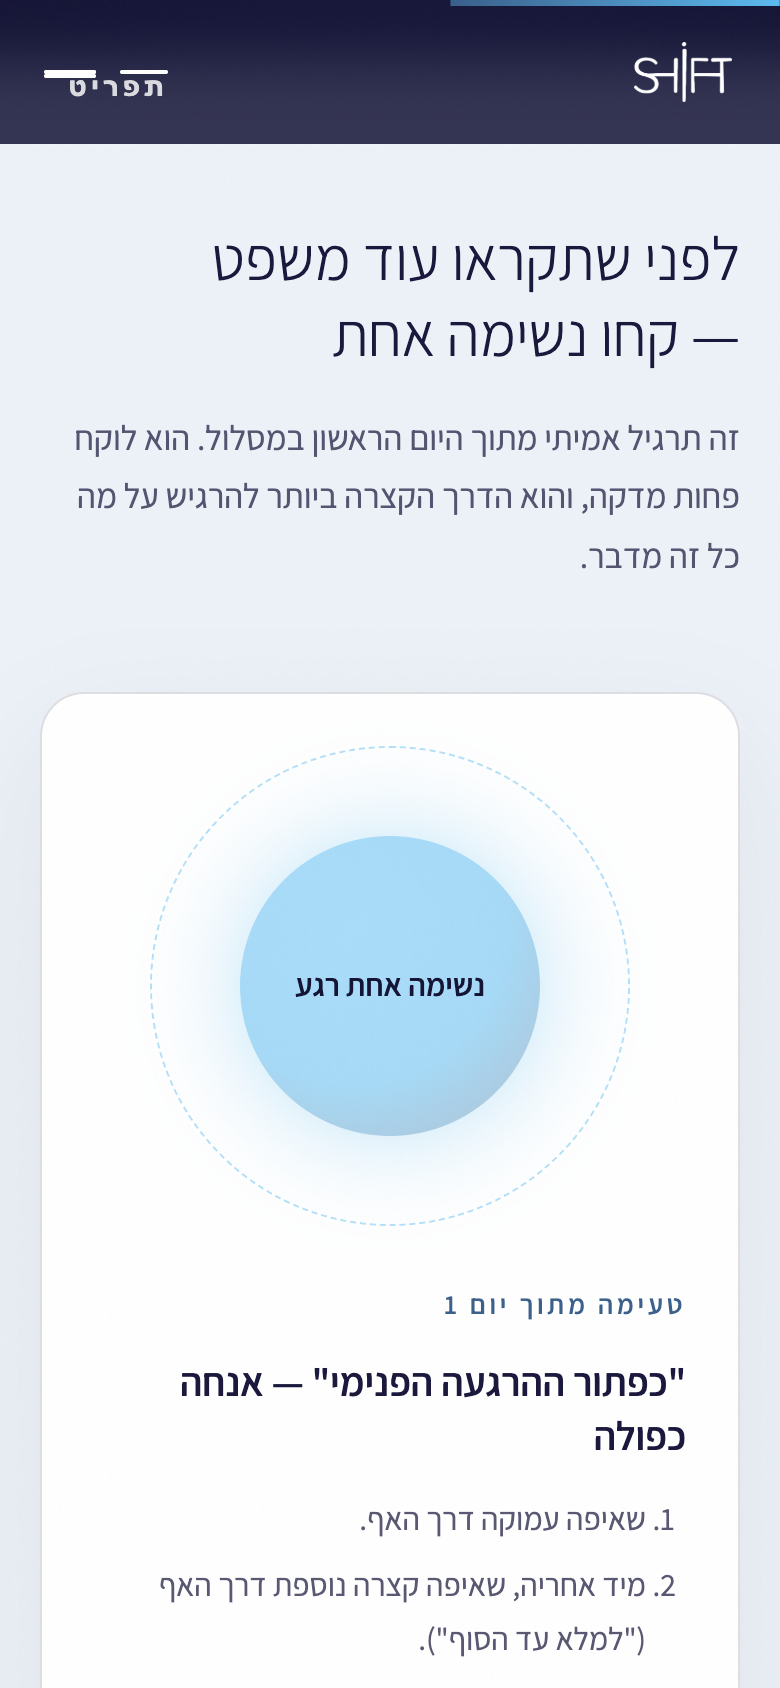
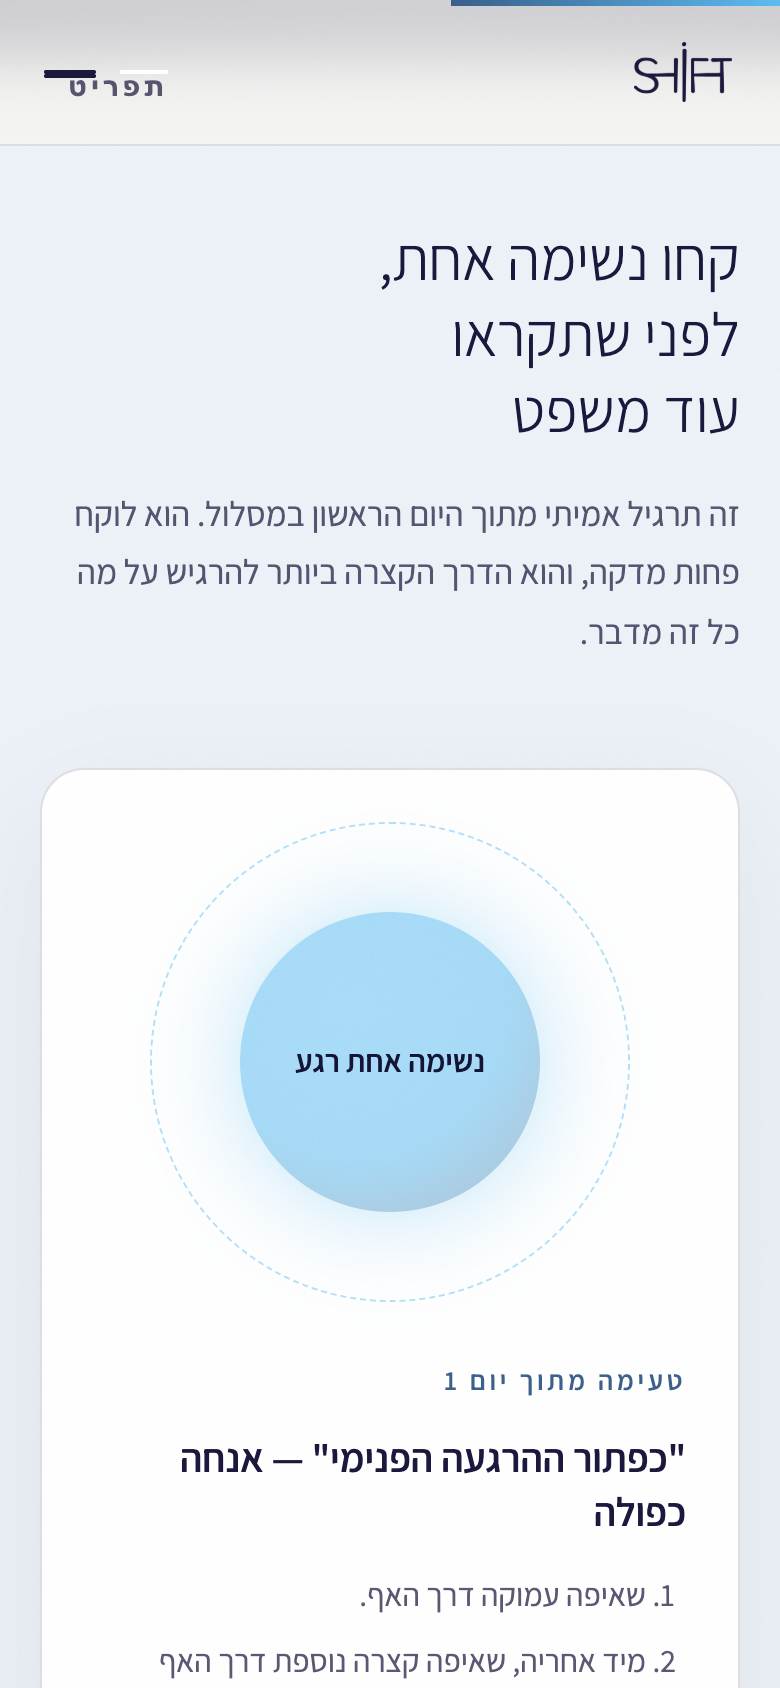
פריטים 1-2: סרגל ניווט שמשתנה עם הרקע, וכותרת הנשימה במובייל
🔴 הניווט על רגע האור
הפס הנייבי האטום ישב על הרקע הבהיר וחתך את הרגע הכי פתוח באתר.
עכשיו הסרגל קורא את מה שמתחתיו:
- IntersectionObserver בפס דק בדיוק מתחת לסרגל (ולא ScrollTrigger) —
  כדי שזה יעבוד גם כשמנוע התנועה כבוי; שם הבעיה זהה ולא פחות חמורה
- החלפה בין שני נכסי המותג האמיתיים (logo-white / logo), בלי פילטר CSS.
  logo.png חזר למאגר — הוצאתי אותו בשלב 7 כ'לא בשימוש', ועכשיו הוא בשימוש
- מקורות בהירים נספרים במפה ולא בדגל, כי ההגעה לאור וההצהרה חופפות
- בצלילה עצמה הסרגל נסוג (dive-hush) וחוזר עם האור

שני באגים שהתגלו תוך כדי ותוקנו:
1. render() רץ בכל פריים ומחזיר את מצב ה'בהיר' מיד אחרי שהצלילה יצאה
   מהמסך — target נשאר 1 לנצח אחרי סוף הסקשן. נוסף שער onScreen.
2. טריגר ההתקדמות נגמר ב-'bottom bottom', ובדיוק שם ההגעה עדיין מלאה על
   המסך — isActive שלו כיבה את הסרגל הבהיר ברגע הכי חשוב. הופרד טריגר
   נראוּת עם end: 'bottom top'.

אומת ב-8 נקודות: שער (כהה) · אמצע (נסוג) · הגעה (בהיר) · statement (בהיר) ·
products (כהה) · breathe (בהיר) · events (כהה) · story (בהיר).

כותרת הנשימה: הניסוח שונה כך שהקו המפריד ירד לגמרי — הוא לא יכול
ליפול בסוף שורה אם הוא לא קיים.

צילומי לפני ב-delivery/before/, אחרי ב-delivery/.

diff --git a/css/style.css b/css/style.css
@@ -1674,3 +1674,47 @@ p { max-width: 68ch; }
 /* שורות הימים הן הטקסט הרחב ביותר בעמוד (823px = 109 תווים) */
 .day-body p { max-width: 62ch; }
 .week-desc p { max-width: 60ch; }
+
+/* ============================================================
+   סרגל ניווט שמשתנה עם מה שמאחוריו
+   ============================================================
+   הפס הנייבי האטום ישב על הרקע הבהיר וחתך את הרגע הכי פתוח באתר —
+   נראה כמו רכיב מדף שהודבק מעל חוויה. עכשיו הוא קורא את הסקשן שמתחתיו.
+   החלפת הלוגו נעשית בין שני נכסי מותג אמיתיים, בלי פילטר CSS. */
+.nav-logo { position: relative; display: block; }
+.nav-logo img { height: 30px; width: auto; transition: opacity 0.45s ease; }
+.nav-logo .logo-on-light { position: absolute; inset-inline-start: 0; top: 0; opacity: 0; }
+html.nav-light .nav-logo .logo-on-dark { opacity: 0; }
+html.nav-light .nav-logo .logo-on-light { opacity: 1; }
+
+html.nav-light .nav.scrolled {
+  background: rgba(246, 245, 242, 0.82);
+  box-shadow: 0 1px 0 rgba(24, 22, 59, 0.09);
+}
+html.nav-light .nav-burger-word { color: var(--ink-soft); }
+html.nav-light .nav-burger-lines span { background: var(--navy); }
+html.nav-light .nav-links a { color: var(--ink-soft); }
+html.nav-light .nav-links a:hover { color: var(--navy); }
+/* התפריט הפתוח תמיד כהה — הוא מסך מלא משלו */
+html.nav-light .mobile-menu.open ~ * .nav-burger-lines span,
+.mobile-menu.open ~ .nav .nav-burger-lines span { background: #fff; }
+
+/* בצלילה עצמה הסרגל נסוג — הוא לא חלק מהחוויה עד שנוחתים */
+html.dive-hush .nav {
+  opacity: 0;
+  pointer-events: none;
+  transform: translateY(-8px);
+}
+.nav { transition: background-color 0.35s ease, box-shadow 0.35s ease,
+                   opacity 0.5s cubic-bezier(0.22, 1, 0.36, 1),
+                   transform 0.5s cubic-bezier(0.22, 1, 0.36, 1); }
+
+@media (prefers-reduced-motion: reduce) {
+  html.dive-hush .nav { opacity: 1; pointer-events: auto; transform: none; }
+  .nav, .nav-logo img { transition: none; }
+}
+
+/* כותרת סקשן הנשימה גלשה במובייל כך שהקו המפריד נפל בסוף השורה.
+   הניסוח שונה כך שהקו נמצא באמצע ולא בקצה, ו-balance מחלק את השורות. */
+.breathe .section-head h2 { text-wrap: balance; max-width: 18ch; }
+@media (max-width: 899px) { .breathe .section-head h2 { max-width: 15ch; } }

diff --git a/js/main.js b/js/main.js
@@ -217,3 +217,46 @@ if (burger && menu) {
     runRound(1);
   });
 })();
+
+// ── גוון הניווט לפי מה שיושב מתחתיו ─────────────────────────────────
+// סרגל נייבי אטום על רקע בהיר נראה כמו רכיב מדף שהודבק מעל חוויה.
+// מיושם ב-IntersectionObserver ולא ב-ScrollTrigger, כדי שיעבוד גם כשמנוע
+// התנועה כבוי (prefers-reduced-motion) — שם הבעיה זהה ולא פחות חמורה.
+//
+// rootMargin חותך את המסך לפס דק בדיוק מתחת לסרגל, כך שהתצפית עונה על
+// השאלה "מה נמצא *מאחורי* הניווט" ולא "מה במרכז המסך".
+//
+// מקורות בהירים יכולים לחפוף (ההגעה לאור וההצהרה מיד אחריה), ולכן
+// נספרים במפה ולא בדגל בוליאני.
+(() => {
+  const docEl = document.documentElement;
+  const active = Object.create(null);
+  const apply = () => docEl.classList.toggle('nav-light', Object.values(active).some(Boolean));
+  window.__navTone = { set: (key, on) => { active[key] = !!on; apply(); }, active };
+
+  const LIGHT = ['.statement', '#method', '#breathe', '#path', '#story', '#outcomes'];
+  const navH = parseInt(getComputedStyle(docEl).getPropertyValue('--nav-h'), 10) || 72;
+
+  if (!('IntersectionObserver' in window)) return;
+  const io = new IntersectionObserver((entries) => {
+    entries.forEach((e) => window.__navTone.set(e.target.dataset.navKey, e.isIntersecting));
+  }, { rootMargin: `-${navH}px 0px -${Math.max(0, window.innerHeight - navH - 4)}px 0px` });
+
+  LIGHT.forEach((sel) => {
+    const el = document.querySelector(sel);
+    if (!el) return;
+    el.dataset.navKey = sel;
+    io.observe(el);
+  });
+
+  // המסלול מתחיל כהה ונגמר בהיר — עוקבים אחרי אותה מחלקה שמסמנת את המעבר
+  const prog = document.querySelector('.program');
+  if (prog && 'MutationObserver' in window) {
+    const sync = () => window.__navTone.set('#program',
+      prog.classList.contains('lit') && prog.getBoundingClientRect().top <= navH
+        && prog.getBoundingClientRect().bottom > navH);
+    new MutationObserver(sync).observe(prog, { attributes: true, attributeFilter: ['class'] });
+    addEventListener('scroll', sync, { passive: true });
+    sync();
+  }
+})();

diff --git a/js/motion.js b/js/motion.js
@@ -221,7 +221,7 @@
       return stats;
     }
 
-    var target = 0, eased = 0;
+    var target = 0, eased = 0, hushOn = false, litOn = false, onScreen = true;
 
     function render() {
       eased += (target - eased) * 0.14;
@@ -249,6 +249,15 @@
 
       // ההגעה אל האור
       var aIn = Math.max(0, Math.min((p - 0.86) / 0.14, 1));
+      // הסרגל לא חלק מהצלילה: נסוג אחרי שיוצאים מהשער, וחוזר עם האור.
+      // (ההשוואה מונעת כתיבה ל-classList בכל פריים)
+      // onScreen מגיע מה-ScrollTrigger. בלעדיו render — שרץ בכל פריים —
+      // היה מחזיר את מצב ה"בהיר" מיד אחרי שהצלילה יצאה מהמסך, כי target
+      // נשאר 1 לנצח אחרי סוף הסקשן.
+      var hush = onScreen && p > 0.06 && aIn < 0.35;
+      if (hush !== hushOn) { hushOn = hush; docEl.classList.toggle('dive-hush', hush); }
+      var lit = onScreen && aIn > 0.5;
+      if (lit !== litOn && window.__navTone) { litOn = lit; window.__navTone.set('dive', lit); }
       if (arrival) {
         arrival.style.opacity = String(aIn);
         arrival.style.pointerEvents = aIn > 0.6 ? 'auto' : 'none';
@@ -264,6 +273,19 @@
       end: 'bottom bottom',
       onUpdate: function (self) { target = self.progress; },
       onRefresh: function (self) { target = eased = self.progress; render(); }
+      // ברגע שההצהרה מכסה את הצלילה, היא כבר לא מה שיושב מאחורי הסרגל —
+      // בלי זה מצב ה"בהיר" של ההגעה נדבק והופך גם סקשנים כהים לבהירים
+
+    });
+
+    // טווח הנראוּת של הצלילה — רחב יותר מטווח ההתקדמות בכוונה.
+    // טריגר ההתקדמות מסתיים ב-'bottom bottom', ובדיוק בנקודה הזו ההגעה
+    // אל האור עדיין מלאה על המסך; שימוש ב-isActive שלו היה מכבה את
+    // הסרגל הבהיר בדיוק ברגע הזה. כאן הצלילה "על המסך" עד שתחתיתה
+    // עוברת את ראש החלון.
+    ScrollTrigger.create({
+      trigger: section, start: 'top top', end: 'bottom top',
+      onToggle: function (self) { onScreen = self.isActive; render(); }
     });
 
     // חשוף לבדיקות אוטומטיות, כמו window.__lenis — בסביבת בדיקה ה-rAF

diff --git a/index.html b/index.html
@@ -50,8 +50,11 @@
   <!-- ניווט -->
   <header class="nav" id="nav">
     <div class="nav-inner">
+      <!-- שני נכסי המותג האמיתיים, לא פילטר CSS: הלבן לרקע כהה, הכהה לרקע בהיר.
+           ה-CSS מחליף ביניהם לפי מה שיושב מאחורי הסרגל. -->
       <a href="#top" class="nav-logo" aria-label="SHIFT — לראש העמוד">
-        <img src="assets/brand/logo-white.png" alt="SHIFT" width="1531" height="940">
+        <img class="logo-on-dark" src="assets/brand/logo-white.png" alt="SHIFT" width="1531" height="940">
+        <img class="logo-on-light" src="assets/brand/logo.png" alt="" aria-hidden="true" width="1531" height="940">
       </a>
       <nav class="nav-links" aria-label="ניווט ראשי">
         <a href="#method">השיטה</a>
@@ -289,7 +292,7 @@
   <section class="breathe section-paper" id="breathe">
     <div class="container">
       <div class="section-head reveal">
-        <h2>לפני שתקראו עוד משפט — קחו נשימה אחת</h2>
+        <h2>קחו נשימה אחת, לפני שתקראו עוד משפט</h2>
         <p class="section-intro">
           זה תרגיל אמיתי מתוך היום הראשון במסלול. הוא לוקח פחות מדקה,
           והוא הדרך הקצרה ביותר להרגיש על מה כל זה מדבר.

diff --git a/NEXT.md b/NEXT.md
@@ -1,41 +1,64 @@
 # NEXT — תיבת הדואר מ-Cowork
 
 Cowork מעדכן כאן כל שעתיים. **לקרוא לפני כל פריט חדש.**
-אם אין כאן כלום עבורך — להמשיך לפי התור שלך.
 
-עדכון אחרון: 26.7.2026, לפני תחילת עבודת שני הסוכנים.
+**סקירה אחרונה:** 26.07.2026 18:48 · קומיט שנסקר: `a9b2e44` (site-complete)
+
+---
+
+## ✅ סבב הבדיקה — הכל עבר
+
+הרצתי בפועל, לא קראתי טענות:
+
+| בדיקה | תוצאה |
+|---|---|
+| `node --check` על כל JS | ✓ נקי |
+| `verify-program.mjs` מול הריפו החי | ✓ 21/21 |
+| בדיקת עשן jsdom — 7 סקשנים | ✓ כולם קיימים ומלאים |
+| 21 נכסים מופנים | ✓ כולם קיימים על הדיסק |
+| 13 תמונות עם `width`/`height` | ✓ 13/13 |
+| `.label` / `.sec-num` / `.grad-text` | ✓ 1 / 0 / 0 (היו 10 / 7 / 1) |
+| משקל מה שנפרס בפועל | ✓ 11MB ב-git (ה-`.mov` וה-15MB מקור המוח מסוננים) |
+| `prefers-reduced-motion` | ✓ 12 מופעים ב-CSS וב-JS |
+
+**הצלילה נוחתת יפה.** בדקתי את `hero-3-light-1440` ו-`breath-390` — הפריצה אל
+האור עובדת, וסקשן הנשימה במובייל נקי ומזמין.
 
 ---
 
 ## 🎨 לסוכן החזות
 
-ברוך הבא. קרא קודם: `AGENTS.md` (חוקי העבודה) ואז `BACKLOG-design.md`.
+קרא: `AGENTS.md` → `BACKLOG-design.md`. התחל מ-**D1** (מיפוי, לא תיקון).
+שני ממצאים שלי להוסיף למפה:
 
-התחל מ-**D1** — מעבר עיניים על כל העמוד. הפרויקט הגדול בן 8 השלבים נסגר,
-ואף אחד עוד לא הסתכל על התוצאה כחוויה אחת רציפה. **קודם למפות, לא לתקן.**
-אני רוצה לראות את המפה שלך לפני שאתה נוגע במשהו.
+**1. סרגל הניווט הורס את רגע האור.** ב-`hero-3-light-1440` ו-`breath-390`
+הפס הנייבי האטום יושב על הרקע הבהיר וחותך את הרגע הכי פתוח באתר. הוא נראה
+כמו רכיב מדף שהודבק מעל חוויה. שקול: הניווט משתנה עם הרקע, או נעלם בצלילה
+וחוזר אחריה.
 
-**ממצא ראשון מ-Cowork (מצילום `delivery/hero-3-light-1440.png`):**
-ברגע ההגעה לאור, סרגל הניווט הכהה יושב על הרקע הבהיר ונראה מנותק וכבד —
-פס נייבי אטום שחותך את הרגע הכי פתוח באתר. שקול שהניווט ישתנה יחד עם הרקע
-(שקוף/בהיר כשמגיעים לאור), או שייעלם בצלילה ויחזור אחריה. תוסיף את זה ל-D1.
-
+**2. הכותרת בסקשן הנשימה גולשת לשתי שורות במובייל** בצורה מגושמת
+("לפני שתקראו עוד משפט — / קחו נשימה אחת"). הקו המפריד נופל בסוף שורה.
+`text-wrap: balance` או ניסוח קצר יותר.
 
 ---
 
 ## 🔧 לסוכן המכניקה
 
-ברוך הבא. קרא קודם: `AGENTS.md` ואז `BACKLOG-tech.md`.
+קרא: `AGENTS.md` → `BACKLOG-tech.md`. התחל מ-**T1** (מדידת חלקות התנועה).
 
-התחל מ-**T1** — מדידת חלקות התנועה. נוספו לעמוד צלילה של 97 פריימים ומערכת
-פרמטרים לאורך הגלילה, ואף אחד לא מדד מה זה עושה לביצועים. אני רוצה מספרים
-ב-`PERF.md`, לא תחושות. במיוחד בהאטת CPU ×4 — שם יושב הקהל האמיתי מאינסטגרם.
+Claude Code פתח בביקורת העצמית שלו חמישה פריטים (E–I ב-`BACKLOG.md`).
+**שניים מהם שלך, והם קופצים לראש התור אחרי T1:**
+
+- **פריט E 🔴** — שומר הסף של הלוגו נבדק רק על Chromium. הטענה "עובד בספארי"
+  לא אומתה. אם אין אייפון זמין — לפחות לתעד במפורש שזו הנחה לא בדוקה.
+- **פריט H** — כל מספרי הביצועים ב-`DELIVERY.md` נמדדו על localhost.
+  זה בדיוק מה ש-T6 (Lighthouse) נועד לפתור. שווה להקדים אותו.
 
 ---
 
 ## לשניכם
 
-- **אל תיגעו בקבצים של השני.** צריך משהו משם → שורה ב-`REQUESTS.md`.
+- **אל תיגעו בקבצים של השני.** צריך משהו → שורה ב-`REQUESTS.md`.
 - אל תמזגו ל-`main` ואל תדחפו לאתר החי. זה שלי ושל OC.
 - פונטים וצבעים נעולים. אל תציעו חלופות.
-- תובנה שמתגלה תוך כדי → פריט בתור שלכם, ולהמשיך. לא לקפוץ באמצע.
+- תובנה שמתגלה → פריט בתור שלכם, ולהמשיך. לא לקפוץ באמצע.

diff --git a/BACKLOG.md b/BACKLOG.md
@@ -138,3 +138,13 @@ OC בחן שישה צירופים בדף ההשוואה (`prototype-type-color.h
 
 ### I. ⬜ 🟢 `.dive-still` מגיש פריים דסקטופי גם במובייל
 מי שאין לו JS מוריד 31KB במקום 20KB. `<picture>` עם srcset יפתור.
+
+### J. ✅ סרגל הניווט הורס את רגע האור — הושלם 26.7
+הפס הנייבי האטום ישב על הרקע הבהיר. עכשיו הסרגל קורא את הסקשן שמתחתיו
+(IntersectionObserver בפס דק מתחת לסרגל — עובד גם ב-reduced-motion), מחליף
+בין שני נכסי הלוגו האמיתיים (לבן/כהה, בלי פילטר CSS), ונסוג לגמרי בזמן
+הצלילה עצמה. אומת ב-8 נקודות: שער/אמצע/הגעה + 5 סקשנים.
+
+### K. ✅ כותרת סקשן הנשימה גלשה מגושם במובייל — הושלם 26.7
+"לפני שתקראו עוד משפט — קחו נשימה אחת" → "קחו נשימה אחת, לפני שתקראו עוד משפט".
+הקו המפריד הוסר לגמרי (הוחלף בפסיק), כך שהוא לא יכול ליפול בסוף שורה.
